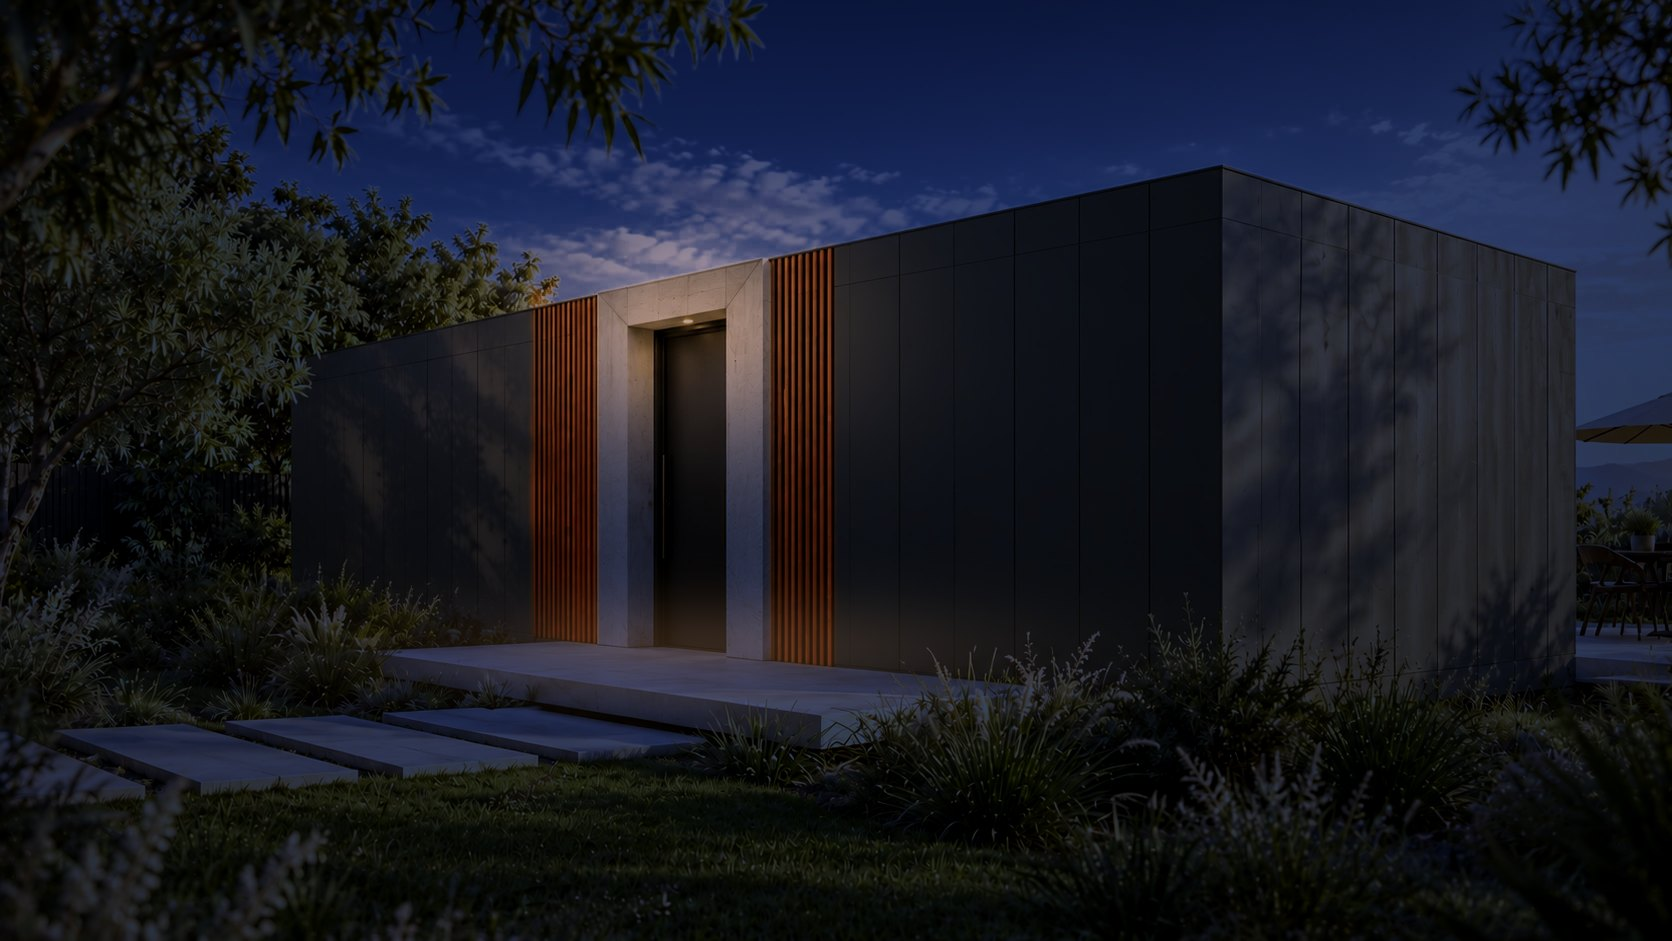
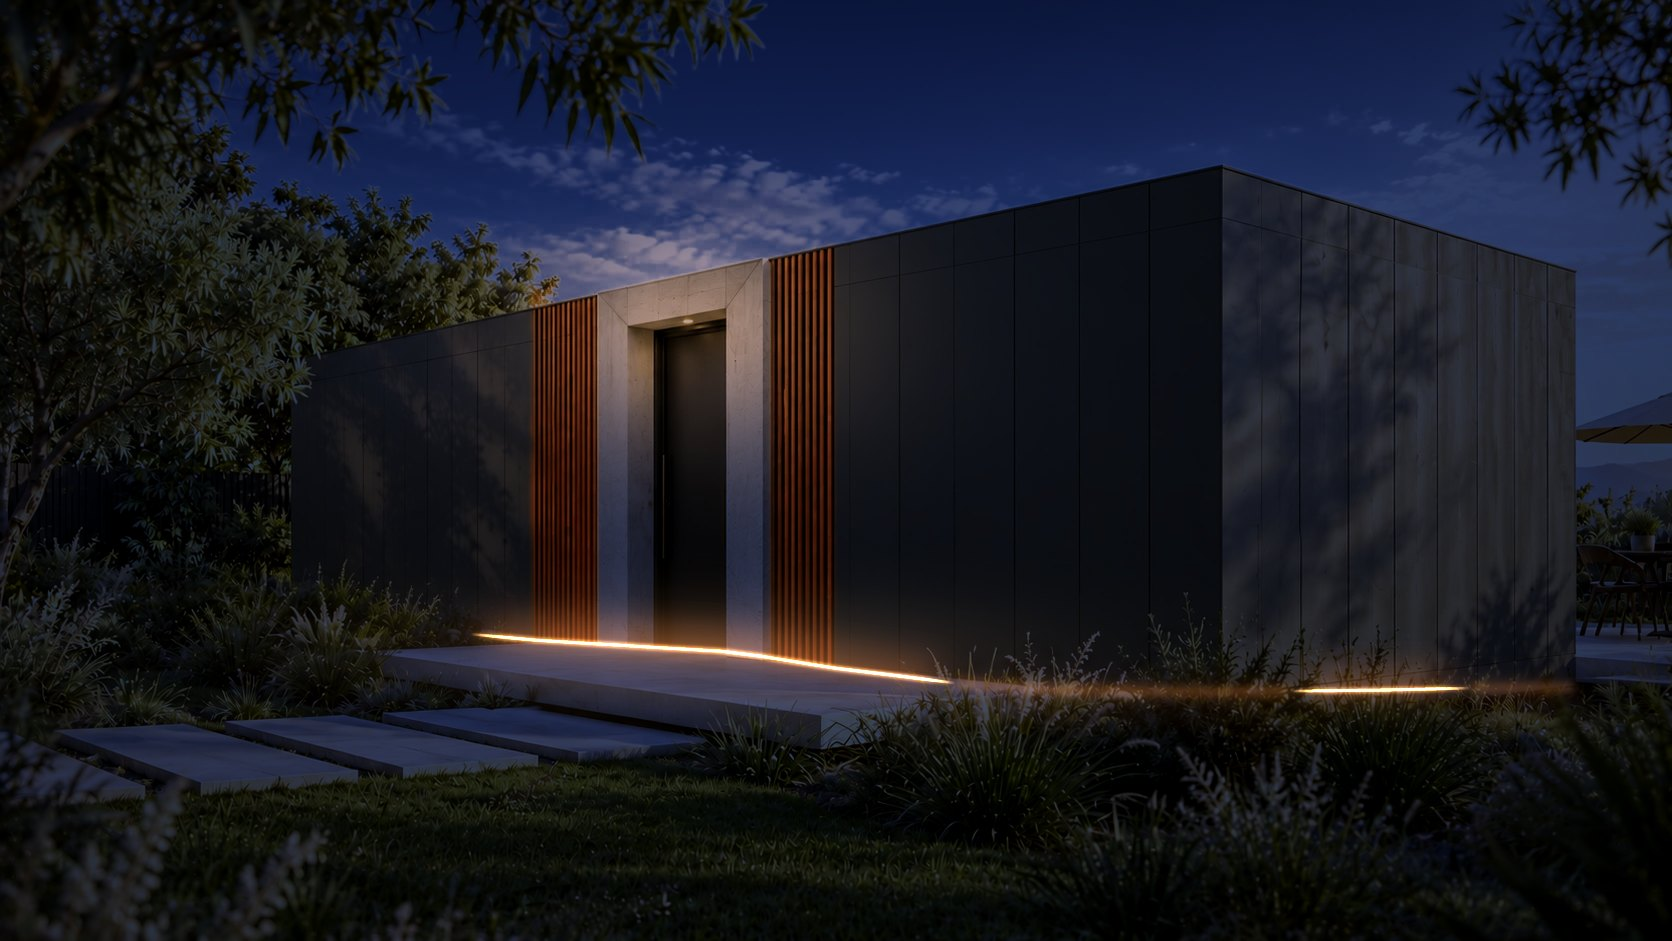
HAAVN BLACK display: the SOLUM night hero has a warm LED strip along the foot of the walls, on with the night layer and off as the day returns

Changed region(s): [[0.2799, 0.6472, 0.9641, 0.7705]]

diff --git a/public/haavn-black-display/index.html b/public/haavn-black-display/index.html
@@ -837,7 +837,7 @@ button.pr__row:hover .n { color: var(--atrium-gold); }
   var $ = function (s, r) { return (r || document).querySelector(s) }, $$ = function (s, r) { return [].slice.call((r || document).querySelectorAll(s)) };
   var Q = new URLSearchParams(location.search), TV = Q.has('tv');
   var APP = /^https?:/.test(location.protocol), EMBED = false; try { EMBED = (window.parent !== window) } catch (e) { EMBED = true }
-  var SOLV = '20261019c';
+  var SOLV = '20261019d';
   if (TV) document.body.classList.add('tv');
 
   /* ── the homes ───────────────────────────────────────────────────────── */

diff --git a/src/pages/HaavnDisplaySuite.tsx b/src/pages/HaavnDisplaySuite.tsx
@@ -27,7 +27,7 @@ export default function HaavnDisplaySuite({ onClose }: { onClose: () => void }) 
 
   return (
     <div style={{ position: 'fixed', inset: 0, zIndex: 700, background: '#0b0b0c', display: 'flex', flexDirection: 'column', paddingTop: 'env(safe-area-inset-top)', paddingBottom: 'env(safe-area-inset-bottom)', overflow: 'hidden', overscrollBehavior: 'none' }}>
-      <iframe title="HAAVN BLACK Display" src="/haavn-black-display/index.html?v=20261019c" allow="fullscreen; autoplay"
+      <iframe title="HAAVN BLACK Display" src="/haavn-black-display/index.html?v=20261019d" allow="fullscreen; autoplay"
         style={{ flex: 1, width: '100%', height: '100%', border: 0, display: 'block' }} />
     </div>
   )
